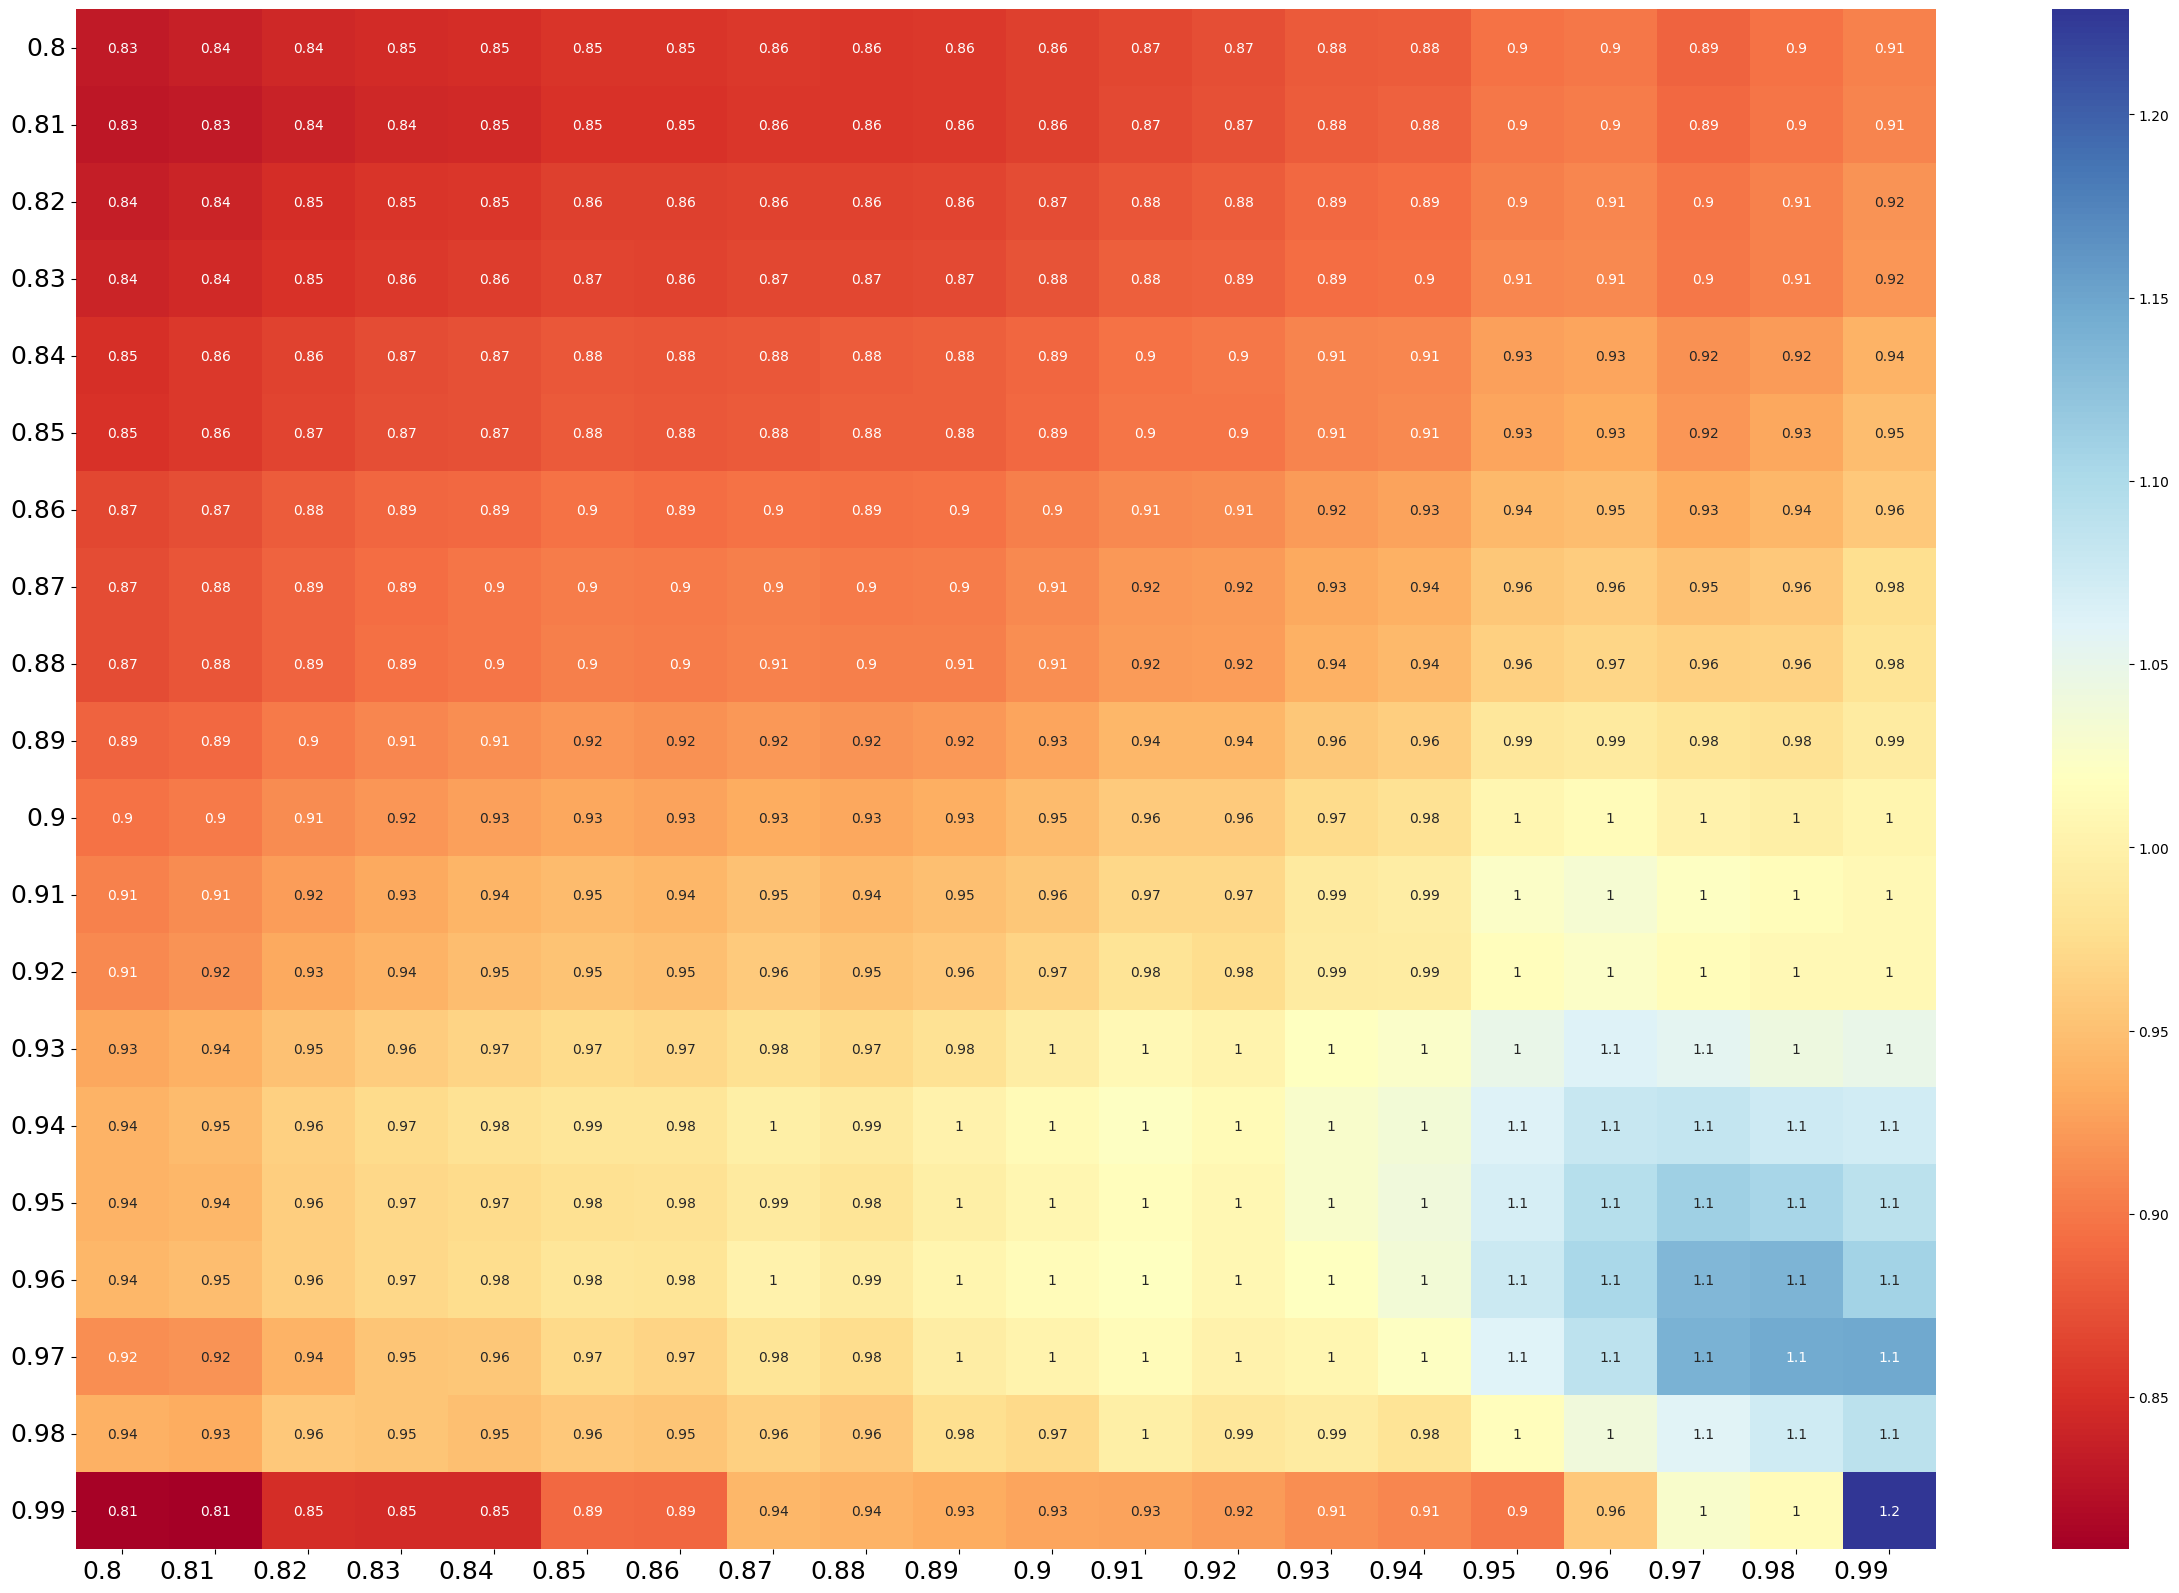
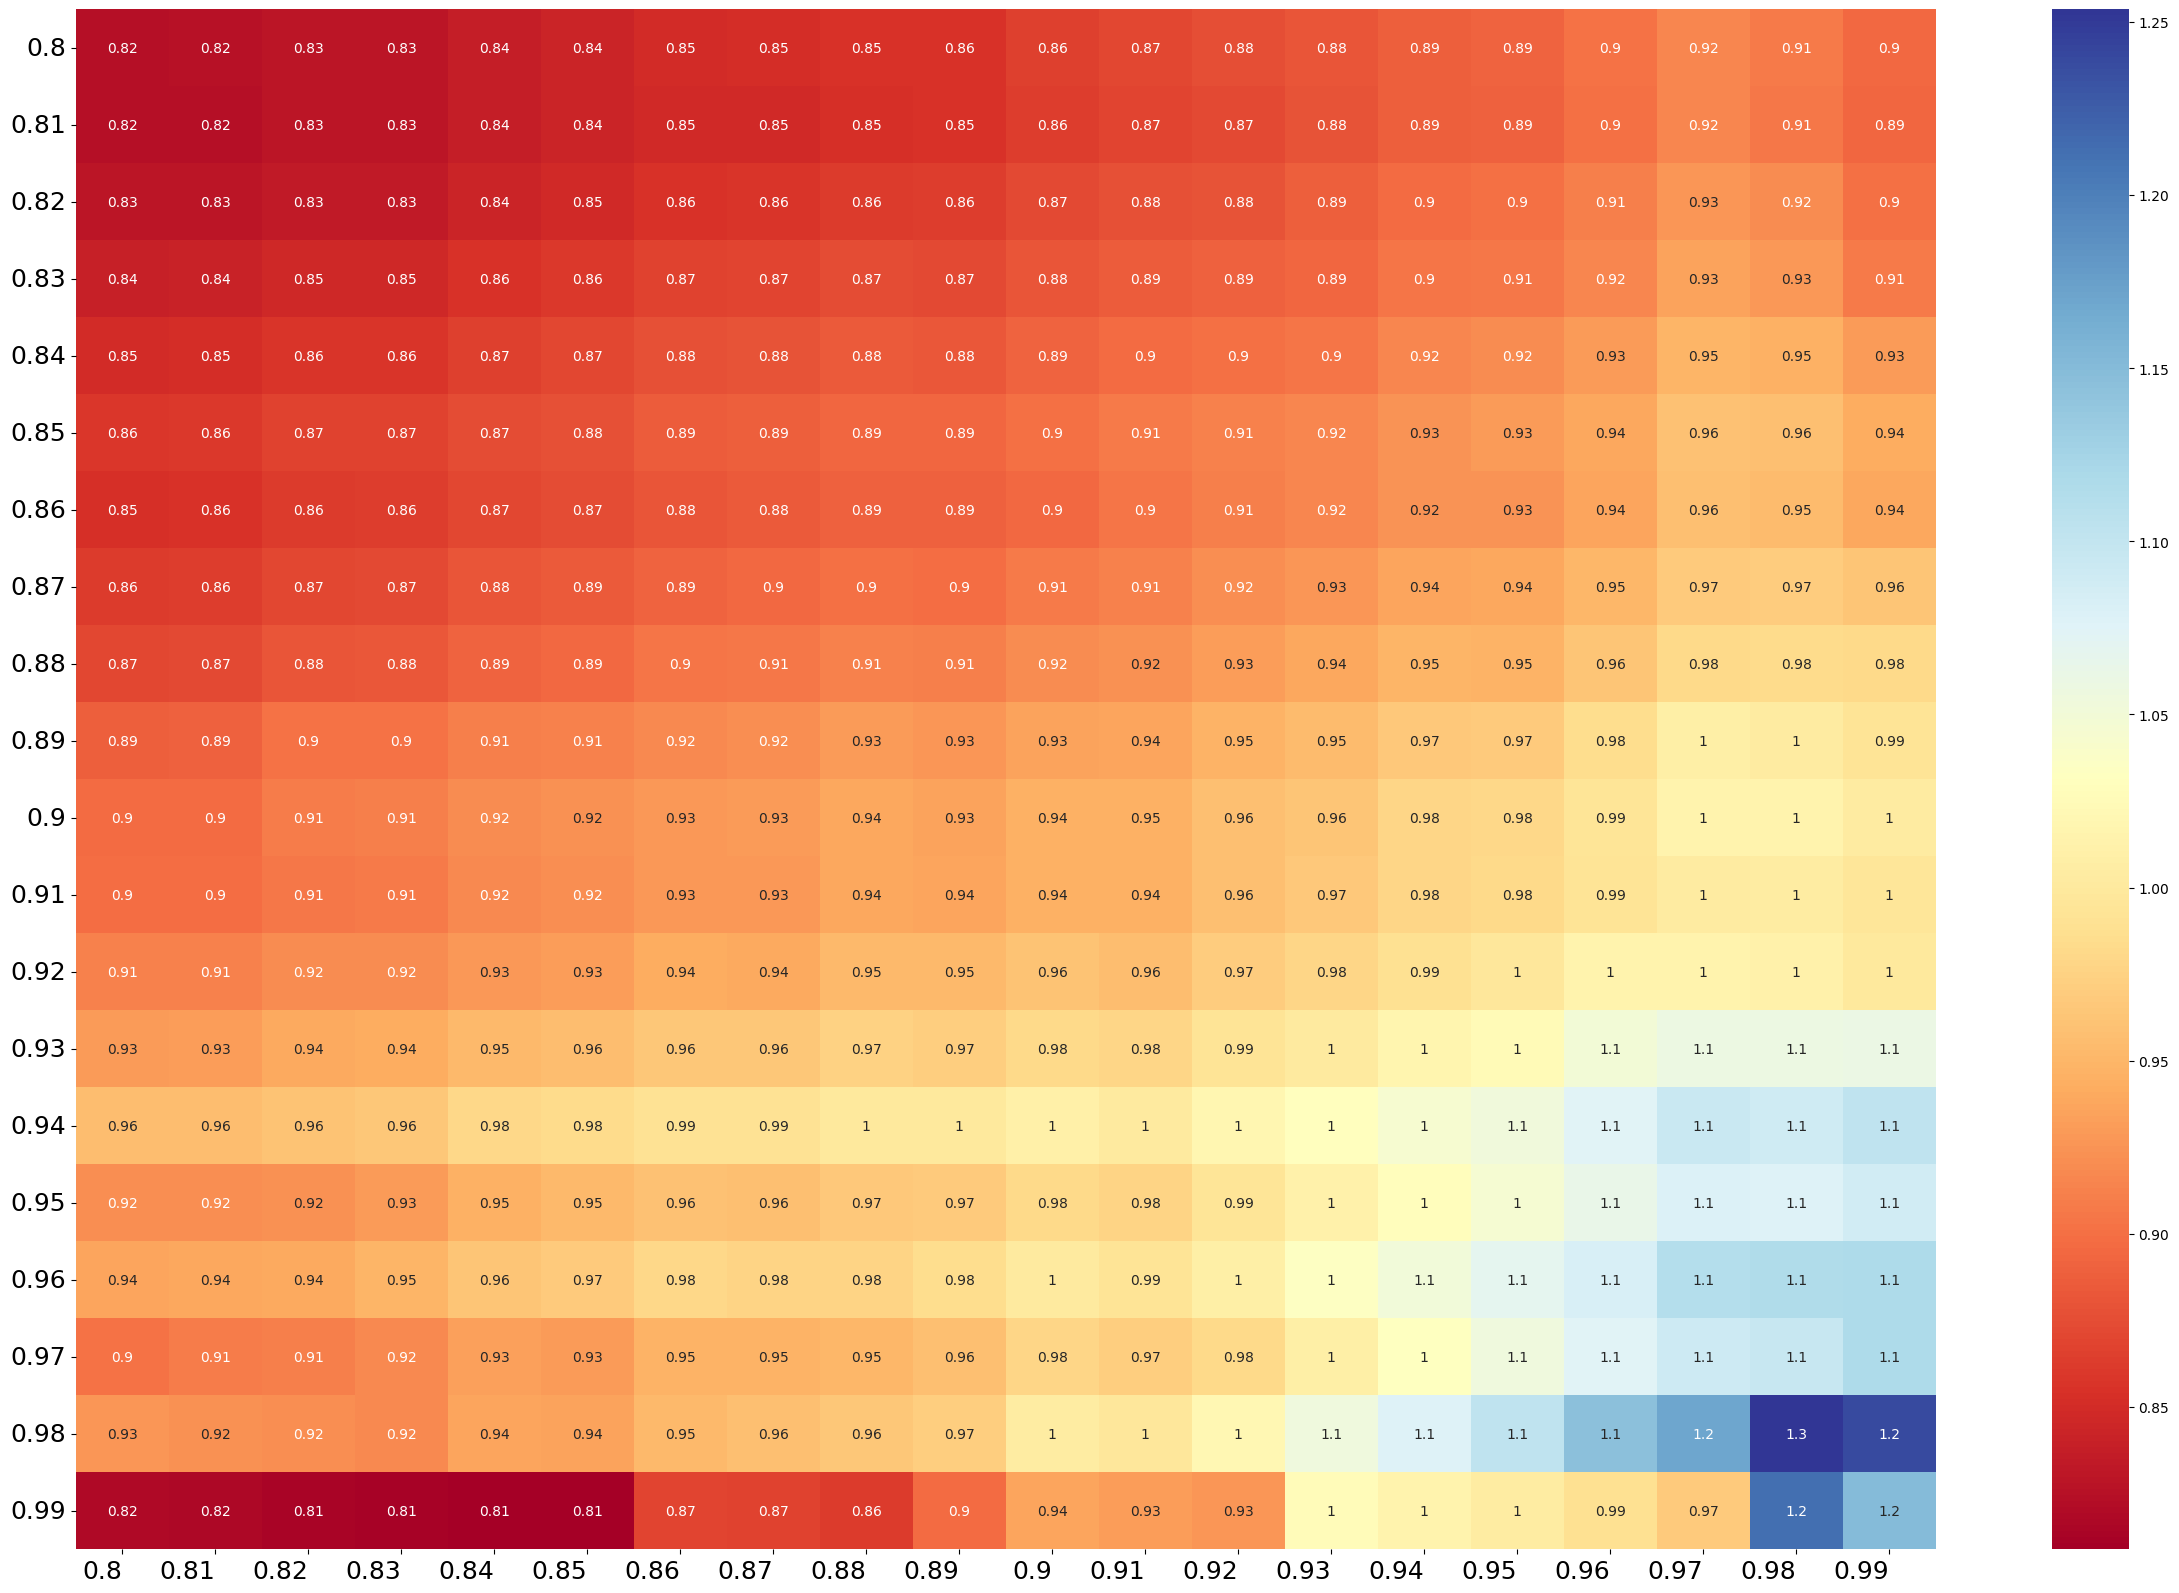
rev

diff --git a/TMVA/Deconvertor.c b/TMVA/Deconvertor.c
@@ -1,4 +1,4 @@
-// last update: 2021-11-18-00
+// last update: 2021-11-10-00
 // for Belle2 data
 
 /*
@@ -23,7 +23,11 @@ revise void Loader::ConvertIntoSeparateRootFile(std::string output_name, double 
 
 void Deconvertor(){
 
-    const char* filenam = "/media/sf_virtualbox_folder/20211109/TMVA_output/TMVAoutput_CHARM_final_output_merge_Mxs_larger_test.root";
+    std::string input_name("TMVAoutput_final_output_merge_Mxs_smaller_CHARM_train_data.root");
+    size_t lastindex = input_name.find_last_of(".");
+    string rawname = input_name.substr(0, lastindex);
+
+    const char* filenam = ("./TMVA_output/"+ input_name).c_str();
 
         TFile *input_file = new TFile(filenam,"read");
 
@@ -182,7 +186,7 @@ void Deconvertor(){
         /*================================================================*/
 
 
-        TFile* temp_file = new TFile("TMVAoutput_CHARM_final_output_merge_Mxs_larger_test_after_TMVA.root", "recreate");
+        TFile* temp_file = new TFile((rawname+"_after_TMVA.root").c_str(), "recreate");
         temp_file->cd();
         TTree* temp_tree_upsilon = new TTree("Upsilon", "");
         TTree* temp_tree_Bsig = new TTree("Bsig", "");
@@ -326,16 +330,12 @@ void Deconvertor(){
             temp_tree_Xs->Branch("nParticlesInList__boXsd__clMCch29__bc", &temp_DecayDataToTree[36]);
             temp_tree_Xs->Branch("nParticlesInList__boXsd__clMCch30__bc", &temp_DecayDataToTree[37]);
         }
-
-        temp_tree_upsilon->Branch("TMVA_BB", &temp_BB_output);
-        temp_tree_upsilon->Branch("TMVA_Continuum", &temp_Continuum_output);
-
         /*================================================================*/
 
         for (unsigned int j = 0; j < temp_tree->GetEntries(); j++) { // Fill
             temp_tree->GetEntry(j);
 
-            if (temp_BB_output > 0.925 && temp_Continuum_output > 0.95) {
+            if (temp_BB_output > 0.98 && temp_Continuum_output > 0.98) {
                 temp_tree_upsilon->Fill();
                 temp_tree_Bsig->Fill();
                 temp_tree_Btag->Fill();

diff --git a/TMVA/TMVAClassificationApplication.C b/TMVA/TMVAClassificationApplication.C
@@ -173,7 +173,8 @@ void TMVAClassificationApplication( TString myMethodList = "" )
    // we'll later on use only the "signal" events for the test in this example.
    //
    TFile *input(0);
-   TString fname = "/media/sf_virtualbox_folder/20211109/For_TMVA_BKG/test/Mxs_large/final_output_merge_Mxs_larger_MIX_test_data.root";
+   std::string input_file_name("final_output_merge_Mxs_smaller_SIGNAL_train_data.root");
+   TString fname = "./For_TMVA_SIGNAL/train/Mxs_small/"+ input_file_name;
    input = TFile::Open( fname );
    if (!input) {
       std::cout << "ERROR: could not open data file" << std::endl;
@@ -323,7 +324,7 @@ void TMVAClassificationApplication( TString myMethodList = "" )
 
    std::cout << "--- Processing: " << theTree->GetEntries() << " events" << std::endl;
 
-   TFile* temp_file = new TFile("TMVAoutput_MIX_final_output_merge_Mxs_larger_test.root", "recreate");
+   TFile* temp_file = new TFile( ("TMVAoutput_"+ input_file_name).c_str(), "recreate");
    temp_file->cd();
    TTree* temp_tree = new TTree("data", "");
 
